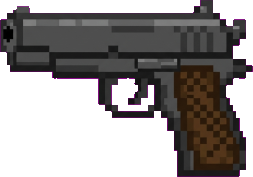
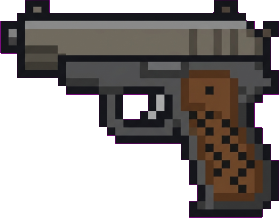
Update 3D gun: 30% scale up, center alignment, barrel bore hole, and new pixel-art texture

diff --git a/steve.js b/steve.js
@@ -178,6 +178,47 @@
     return limb;
   }
 
+  // Helper to generate a pixelated noise texture dynamically using HTML5 Canvas
+  function createVoxelTexture(w, h, baseColorHex, addHole = false) {
+    const hex = baseColorHex.replace('#', '');
+    const r = parseInt(hex.substring(0, 2), 16);
+    const g = parseInt(hex.substring(2, 4), 16);
+    const b = parseInt(hex.substring(4, 6), 16);
+    
+    // Scale texture size (4 pixels per unit matches standard Minecraft resolution)
+    const pxW = Math.max(1, Math.round(w * 4));
+    const pxH = Math.max(1, Math.round(h * 4));
+    
+    const canvas = document.createElement('canvas');
+    canvas.width = pxW;
+    canvas.height = pxH;
+    const ctx = canvas.getContext('2d');
+    
+    for (let y = 0; y < pxH; y++) {
+      for (let x = 0; x < pxW; x++) {
+        // Add pixel-art noise offset (+/- 12)
+        const noise = Math.floor(Math.random() * 25) - 12;
+        const nr = Math.max(0, Math.min(255, r + noise));
+        const ng = Math.max(0, Math.min(255, g + noise));
+        const nb = Math.max(0, Math.min(255, b + noise));
+        
+        ctx.fillStyle = `rgb(${nr}, ${ng}, ${nb})`;
+        ctx.fillRect(x, y, 1, 1);
+      }
+    }
+
+    // Add a black pixel barrel hole in the center of the muzzle
+    if (addHole) {
+      const cx = Math.floor(pxW / 2);
+      const cy = Math.floor(pxH / 2);
+      ctx.fillStyle = '#000000';
+      // Draw a 2x2 pixel black bore hole
+      ctx.fillRect(cx - 1, cy - 1, 2, 2);
+    }
+    
+    return canvas.toDataURL();
+  }
+
   // Helper to build a 3D voxel handgun with pixel noise texture
   function create3DGun() {
     const gunContainer = document.createElement('div');
@@ -191,12 +232,12 @@
       box.style.transformStyle = 'preserve-3d';
       
       const faceSpecs = [
-        { name: 'front',  w: w, h: h, transform: `translate3d(0, 0, calc(${d / 2} * var(--mu)))`, bg: color, noise: 'rgba(255,255,255,0.06)' },
-        { name: 'back',   w: w, h: h, transform: `rotateY(180deg) translate3d(0, 0, calc(${d / 2} * var(--mu)))`, bg: color, noise: 'rgba(0,0,0,0.06)' },
-        { name: 'left',   w: d, h: h, transform: `rotateY(90deg) translate3d(0, 0, calc(${w / 2} * var(--mu)))`, bg: shadowColor, noise: 'rgba(0,0,0,0.08)' },
-        { name: 'right',  w: d, h: h, transform: `rotateY(-90deg) translate3d(0, 0, calc(${w / 2} * var(--mu)))`, bg: highlight, noise: 'rgba(255,255,255,0.08)' },
-        { name: 'top',    w: w, h: d, transform: `rotateX(90deg) translate3d(0, 0, calc(${h / 2} * var(--mu)))`, bg: highlight, noise: 'rgba(255,255,255,0.1)' },
-        { name: 'bottom', w: w, h: d, transform: `rotateX(-90deg) translate3d(0, 0, calc(${h / 2} * var(--mu)))`, bg: shadowColor, noise: 'rgba(0,0,0,0.1)' }
+        { name: 'front',  w: w, h: h, transform: `translate3d(0, 0, calc(${d / 2} * var(--mu)))`, bg: color },
+        { name: 'back',   w: w, h: h, transform: `rotateY(180deg) translate3d(0, 0, calc(${d / 2} * var(--mu)))`, bg: color },
+        { name: 'left',   w: d, h: h, transform: `rotateY(90deg) translate3d(0, 0, calc(${w / 2} * var(--mu)))`, bg: shadowColor },
+        { name: 'right',  w: d, h: h, transform: `rotateY(-90deg) translate3d(0, 0, calc(${w / 2} * var(--mu)))`, bg: highlight },
+        { name: 'top',    w: w, h: d, transform: `rotateX(90deg) translate3d(0, 0, calc(${h / 2} * var(--mu)))`, bg: highlight },
+        { name: 'bottom', w: w, h: d, transform: `rotateX(-90deg) translate3d(0, 0, calc(${h / 2} * var(--mu)))`, bg: shadowColor }
       ];
       
       faceSpecs.forEach(spec => {
@@ -205,14 +246,36 @@
         face.style.width = `calc(${spec.w} * var(--mu))`;
         face.style.height = `calc(${spec.h} * var(--mu))`;
         face.style.transform = `translate(-50%, -50%) ${spec.transform}`;
-        face.style.backgroundColor = spec.bg;
         face.style.position = 'absolute';
         face.style.left = '50%';
         face.style.top = '50%';
         
-        // CSS conic-gradient checkerboard creates pixelated noise aligned with Steve's textures
-        face.style.backgroundImage = `conic-gradient(${spec.noise} 25%, transparent 0 50%, ${spec.noise} 0 75%, transparent 0)`;
-        face.style.backgroundSize = `calc(1 * var(--mu)) calc(1 * var(--mu))`;
+        let isTextureMapped = false;
+        
+        // Map the new high-quality pixel-art gun texture onto the side profiles
+        if (name === 'gun-slide' && (spec.name === 'left' || spec.name === 'right')) {
+          face.style.backgroundImage = "url('assets/gun.png')";
+          face.style.backgroundSize = '100% 180%';
+          face.style.backgroundPosition = '0 0';
+          face.style.imageRendering = 'pixelated';
+          isTextureMapped = true;
+        } else if (name === 'gun-grip' && (spec.name === 'left' || spec.name === 'right')) {
+          face.style.backgroundImage = "url('assets/gun.png')";
+          face.style.backgroundSize = '200% 220%';
+          face.style.backgroundPosition = '100% 100%';
+          face.style.imageRendering = 'pixelated';
+          isTextureMapped = true;
+        }
+        
+        if (!isTextureMapped) {
+          // Apply canvas pixel noise texture for tops, bottoms, and end caps
+          // Add a black bore hole if it is the front face of the slide
+          const addHole = (name === 'gun-slide' && spec.name === 'front');
+          const textureUrl = createVoxelTexture(spec.w, spec.h, spec.bg, addHole);
+          face.style.backgroundImage = `url(${textureUrl})`;
+          face.style.backgroundSize = '100% 100%';
+          face.style.imageRendering = 'pixelated';
+        }
         
         face.style.boxShadow = `inset calc(0.3 * var(--mu)) calc(0.3 * var(--mu)) 0 rgba(255,255,255,0.05), inset calc(-0.3 * var(--mu)) calc(-0.3 * var(--mu)) 0 rgba(0,0,0,0.12)`;
         box.appendChild(face);
@@ -221,26 +284,26 @@
       return box;
     }
     
-    // Slide (barrel): 1.0 wide, 1.4 high, 5.5 long (slimmer and more realistic)
-    const slide = createSolidBox('gun-slide', 1.0, 1.4, 5.5, '#303030', '#4a4a4a', '#1e1e1e');
+    // Slide (barrel): 1.3 wide, 1.8 high, 7.0 long (scaled up by 30%)
+    const slide = createSolidBox('gun-slide', 1.3, 1.8, 7.0, '#303030', '#4a4a4a', '#1e1e1e');
     slide.style.position = 'absolute';
     slide.style.left = '0';
     slide.style.top = '0';
-    slide.style.transform = `translate3d(0, calc(-1.4 * var(--mu)), calc(1.5 * var(--mu)))`; // sits on top of grip, pushed forward
+    slide.style.transform = `translate3d(0, calc(-1.8 * var(--mu)), calc(2.0 * var(--mu)))`; // sits on top of grip, pushed forward
 
-    // Grip: 0.8 wide, 2.6 high, 1.4 long
-    const grip = createSolidBox('gun-grip', 0.8, 2.6, 1.4, '#583c25', '#735032', '#3e2918');
+    // Grip: 1.0 wide, 3.4 high, 1.8 long (scaled up by 30%)
+    const grip = createSolidBox('gun-grip', 1.0, 3.4, 1.8, '#583c25', '#735032', '#3e2918');
     grip.style.position = 'absolute';
     grip.style.left = '0';
     grip.style.top = '0';
     grip.style.transform = `translate3d(0, 0, 0) rotateX(15deg)`; // angled grip
 
-    // Trigger Guard: 0.8 wide, 1.0 high, 1.2 long
-    const guard = createSolidBox('gun-guard', 0.8, 1.0, 1.2, '#181818', '#252525', '#0f0f0f');
+    // Trigger Guard: 1.0 wide, 1.3 high, 1.6 long (scaled up by 30%)
+    const guard = createSolidBox('gun-guard', 1.0, 1.3, 1.6, '#181818', '#252525', '#0f0f0f');
     guard.style.position = 'absolute';
     guard.style.left = '0';
     guard.style.top = '0';
-    guard.style.transform = `translate3d(0, calc(-0.4 * var(--mu)), calc(1.0 * var(--mu)))`;
+    guard.style.transform = `translate3d(0, calc(-0.5 * var(--mu)), calc(1.3 * var(--mu)))`;
 
     gunContainer.appendChild(slide);
     gunContainer.appendChild(grip);

diff --git a/styles.css b/styles.css
@@ -477,8 +477,8 @@ body.horror-active .steve-container {
   transform-style: preserve-3d;
   /* Hidden by default */
   opacity: 0;
-  /* Centered on the palm, rotated X by 90deg so the barrel points forward with the forward-raised arm */
-  transform: translate3d(calc(-0.4 * var(--mu)), 0, calc(2.3 * var(--mu))) rotateX(90deg) rotateY(0deg) rotateZ(0deg);
+  /* Centered on the palm, rotated X by -90deg so the barrel points forward with the forward-raised arm */
+  transform: translate3d(calc(-0.5 * var(--mu)), 0, calc(2.4 * var(--mu))) rotateX(-90deg) rotateY(0deg) rotateZ(0deg);
   transition: opacity 0.3s ease;
   pointer-events: none;
 }
@@ -498,8 +498,8 @@ body.horror-active .steve-container {
 /* HORROR ACTIVE OVERRIDES: Raise arm & aim 3D gun at screen */
 body.horror-active .rightArm-wrapper {
   animation: none; /* Cancel walking swing */
-  /* Aim forward directly toward camera: rotateX(90deg) raises arm forward, rotateY(18deg) and rotateZ(4deg) look natural */
-  transform: rotateX(90deg) rotateY(18deg) rotateZ(4deg);
+  /* Aim forward directly toward camera: rotateY(20deg) counters body rotation, rotateX(90deg) raises arm forward */
+  transform: rotateY(20deg) rotateX(90deg) rotateZ(4deg);
   transition: transform 0.4s cubic-bezier(0.18, 0.89, 0.32, 1.28);
 }
 
